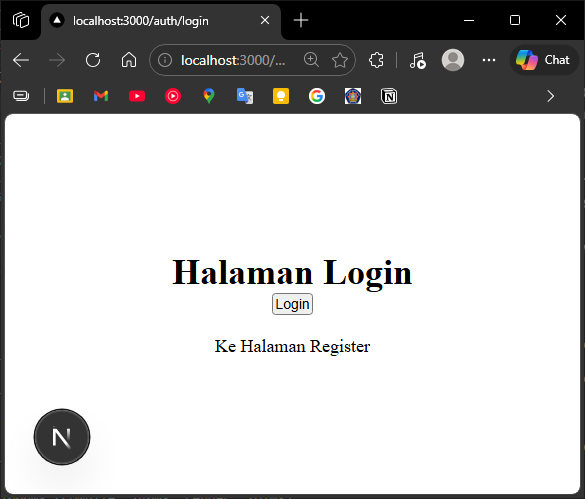
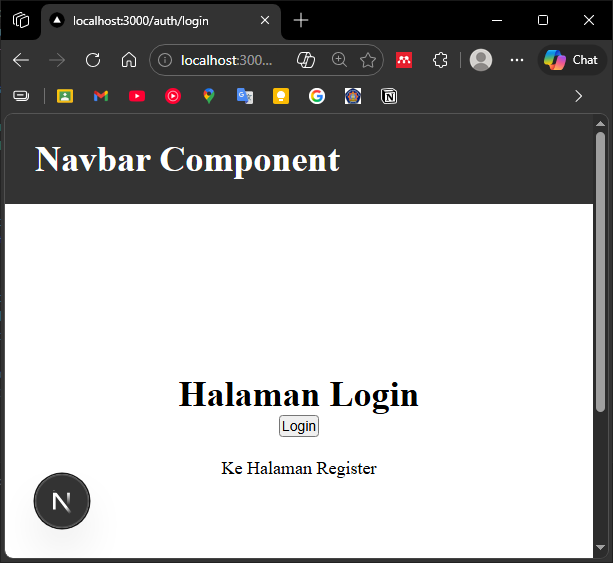
Praktikum 4 - 4. Conditional Rendering Navbar (Tanpa Navbar di Login)

diff --git a/Praktikum_04/styling/src/pages/_app.tsx b/Praktikum_04/styling/src/pages/_app.tsx
@@ -23,15 +23,15 @@ export default function App({ Component, pageProps }: AppProps) {
 
   if (loading) return null;
 
-  const isAuthPage =
-    router.pathname === "/auth/login" ||
-    router.pathname === "/auth/register";
+  // const isAuthPage =
+  //   router.pathname === "/auth/login" ||
+  //   router.pathname === "/auth/register";
 
   return (
     <>
-      {isAuthPage ? (
+      {/* {isAuthPage ? (
         <Component {...pageProps} />
-      ) : (
+      ) : ( */}
         <AppShell>
           <Component {...pageProps} />
           <button
@@ -43,7 +43,7 @@ export default function App({ Component, pageProps }: AppProps) {
             Logout
           </button>
         </AppShell>
-      )}
+      {/* )} */}
     </>
   );
 }

diff --git a/Praktikum_04/styling/src/component/layouts/Appshell/index.tsx b/Praktikum_04/styling/src/component/layouts/Appshell/index.tsx
@@ -1,4 +1,7 @@
+import { useRouter } from "next/router";
 import Navbar from "../navbar";
+
+const disableNavbar = ['/auth/login', '/auth/register'];
 
 type AppShellProps = {
     children: React.ReactNode;
@@ -6,9 +9,10 @@ type AppShellProps = {
 
 const AppShell = (props:AppShellProps) => {
     const { children } = props;
+    const { pathname } = useRouter();
     return (
         <main>
-            <Navbar />
+            {!disableNavbar.includes(pathname) && <Navbar />}
             {children}
             <div className="footer">
                 <h1>Footer</h1>

diff --git a/Praktikum_04/styling/README.md b/Praktikum_04/styling/README.md
@@ -36,6 +36,15 @@
 ![alt text](image-10.png)<br>
 
 ### 4. Conditional Rendering Navbar (Tanpa Navbar di Login)
+- Modifikasi `index.tsx` pada folder `AppShell` <br>
+    - `import { useRouter } from "next/router";` <br>
+    - `const disableNavbar = ["/auth/login", "/auth/register"];` <br>
+    - `const { pathname } = useRouter();` <br>
+    - `{!disableNavbar.includes(pathname) && <Navbar />}` <br>
+![alt text](image-11.png)<br>
+- Jalankan browser <br>
+![alt text](image-12.png)<br>
+
 ### 5. Refactoring Struktur Project (Best Practice)
 ### 6. Inline Styling (CSS-in-JS)
 ### 7. Kombinasi Global CSS + CSS Module
